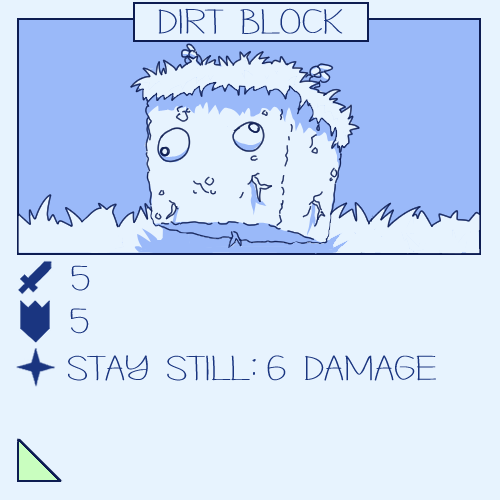
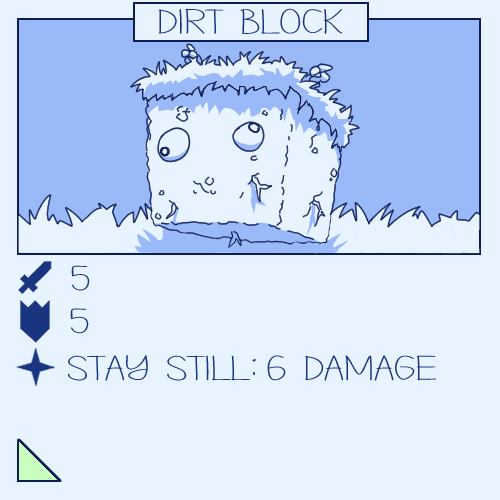
up

Changed region(s): [[0.27, 0.12, 0.69, 0.3]]

diff --git a/src/components/DashBoredCards.jsx b/src/components/DashBoredCards.jsx
@@ -62,7 +62,7 @@ export const DashBoredCards = () => {
     
     const generateRandomCard = async () => {
         // amounts: rarity from 1 -> 5
-        let amounts = [6,7,6,5,4]
+        let amounts = [7,7,6,5,4]
         let randomCardNumber;
         const randomRarityNumber = Math.floor(Math.random() * 10000) + 1;
         let rarity;
